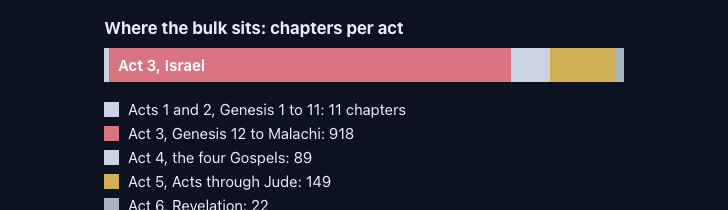
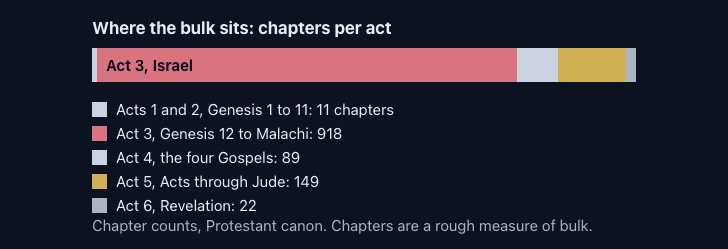
Fix the clipped chart captions, and the blank line that ate three charts
The homepage chart stopped above its own source caption because the
caption was wider than its viewBox and the browser clipped it. The
capture script cropped around the damage. Fixes the charts instead, so
the caption is in the picture: a chart that does not name its source is
worth less.

bible-basics 02's chart and map get a wider viewBox with max-width
widened to match, so 1 unit stays 1 pixel rather than shrinking type
that is already small. The bar is rescaled to keep its right margin. The
"Act 3, Israel" label was hardcoded white, which is 2.2:1 on the salmon
the bar becomes in dark mode; it is knocked out in --bg now, about 8:1
in both themes.

Six other clipped labels: captions wrapped onto a second line in 05, 11,
12 and logic 09, the annotation in 04 moved to a centred line under the
rows, the label in 09 started further left. Widening was wrong for these
because they scale to the column, so a wider box shrinks type the linter
already flags as too small.

Two linter changes, both from things found while doing this:

- It measured rotated labels by their length. logic 10's "concession
  feeds the qualifier" is rotate(90), so it is only as wide as its font
  is tall and was never clipped. It projects the rotation now, and skips
  transforms it cannot reason about.
- A blank line inside an <svg> ends the raw HTML block, so marked closed
  the chart early and the rest rendered outside it and never drew. The
[…]

Changed region(s): [[0.1209, 0.0857, 0.8764, 0.5714], [0.1209, 0.6, 0.8159, 1.0]]

diff --git a/courses/christian-studies/bible-basics/lessons/11-choosing-a-translation.md b/courses/christian-studies/bible-basics/lessons/11-choosing-a-translation.md
@@ -103,7 +103,7 @@ Fee and Stuart put it in the middle. Most people who own one guess "literal", be
 
 Here is their placement, with the dates I've verified from the publishers, and with the CSB (which replaced the HCSB in 2017) placed where its own publisher describes it.[1][13][14]
 
-<svg viewBox="0 0 420 330" role="img" aria-labelledby="spectrum-title spectrum-desc" style="width:100%;height:auto;font-family:inherit">
+<svg viewBox="0 0 420 346" role="img" aria-labelledby="spectrum-title spectrum-desc" style="width:100%;height:auto;font-family:inherit">
   <title id="spectrum-title">The translation spectrum</title>
   <desc id="spectrum-desc">A horizontal spectrum from formal equivalence on the left to free translation on the right. On the formal side: NASB 1971 and 2020, KJV 1611, NKJV 1982, ESV 2001, NRSV 1989 and NRSVue 2021. In the middle: CSB 2017, NIV 1978, 1984, and 2011, NLT 1996 and 2004. On the free end: The Message 2002. Placement follows Fee and Stuart, with the CSB placed by its publisher's description.</desc>
   <defs>
@@ -115,50 +115,43 @@ Here is their placement, with the dates I've verified from the publishers, and w
   </defs>
   <rect x="20" y="40" width="380" height="14" rx="7" fill="url(#spec)"/>
   <g font-size="12" font-weight="700" fill="var(--text)">
-    <text x="20" y="28">Formal: keeps the form</text>
-    <text x="400" y="28" text-anchor="end">Free: restates the idea</text>
+    <text x="20" y="28">Formal: the form</text>
+    <text x="400" y="28" text-anchor="end">Free: the idea</text>
   </g>
-  <text x="210" y="28" text-anchor="middle" font-size="12" font-weight="700" fill="var(--text)">Functional: keeps the sense</text>
+  <text x="210" y="28" text-anchor="middle" font-size="12" font-weight="700" fill="var(--text)">Functional: the sense</text>
   <g font-size="13" fill="var(--text)">
     <line x1="48" y1="54" x2="48" y2="72" stroke="var(--line)" stroke-width="2"/>
     <text x="48" y="88" text-anchor="middle" font-weight="700">NASB</text>
     <text x="48" y="103" text-anchor="middle" font-size="11" fill="var(--text-2)">1971, 2020</text>
-
     <line x1="92" y1="54" x2="92" y2="112" stroke="var(--line)" stroke-width="2"/>
     <text x="92" y="128" text-anchor="middle" font-weight="700">KJV</text>
     <text x="92" y="143" text-anchor="middle" font-size="11" fill="var(--text-2)">1611</text>
-
     <line x1="126" y1="54" x2="126" y2="152" stroke="var(--line)" stroke-width="2"/>
     <text x="126" y="168" text-anchor="middle" font-weight="700">NKJV</text>
     <text x="126" y="183" text-anchor="middle" font-size="11" fill="var(--text-2)">1982</text>
-
     <line x1="150" y1="54" x2="150" y2="72" stroke="var(--line)" stroke-width="2"/>
     <text x="150" y="88" text-anchor="middle" font-weight="700">ESV</text>
     <text x="150" y="103" text-anchor="middle" font-size="11" fill="var(--text-2)">2001</text>
-
     <line x1="172" y1="54" x2="172" y2="192" stroke="var(--line)" stroke-width="2"/>
     <text x="172" y="208" text-anchor="middle" font-weight="700">NRSV</text>
     <text x="172" y="223" text-anchor="middle" font-size="11" fill="var(--text-2)">1989, 2021</text>
-
     <line x1="210" y1="54" x2="210" y2="112" stroke="var(--line)" stroke-width="2"/>
     <text x="210" y="128" text-anchor="middle" font-weight="700">CSB</text>
     <text x="210" y="143" text-anchor="middle" font-size="11" fill="var(--text-2)">2017</text>
-
     <line x1="250" y1="54" x2="250" y2="72" stroke="var(--line)" stroke-width="2"/>
     <text x="250" y="88" text-anchor="middle" font-weight="700">NIV</text>
     <text x="250" y="103" text-anchor="middle" font-size="11" fill="var(--text-2)">1978, 1984, 2011</text>
-
     <line x1="300" y1="54" x2="300" y2="152" stroke="var(--line)" stroke-width="2"/>
     <text x="300" y="168" text-anchor="middle" font-weight="700">NLT</text>
     <text x="300" y="183" text-anchor="middle" font-size="11" fill="var(--text-2)">1996, 2004</text>
-
     <line x1="378" y1="54" x2="378" y2="72" stroke="var(--line)" stroke-width="2"/>
     <text x="378" y="88" text-anchor="middle" font-weight="700">Message</text>
     <text x="378" y="103" text-anchor="middle" font-size="11" fill="var(--text-2)">2002</text>
   </g>
-  <text x="20" y="262" font-size="11" fill="var(--text-2)">Placement after Fee and Stuart, How to Read the Bible for All Its Worth, ch. 2.</text>
-  <text x="20" y="278" font-size="11" fill="var(--text-2)">Dates are first editions and major revisions, from the publishers.</text>
-  <text x="20" y="300" font-size="11" fill="var(--text-2)">Positions within a band are approximate; the bands are the point.</text>
+  <text x="20" y="262" font-size="11" fill="var(--text-2)">Placement after Fee and Stuart,</text>
+  <text x="20" y="278" font-size="11" fill="var(--text-2)">How to Read the Bible for All Its Worth, ch. 2.</text>
+  <text x="20" y="294" font-size="11" fill="var(--text-2)">Dates are first editions and major revisions, from the publishers.</text>
+  <text x="20" y="316" font-size="11" fill="var(--text-2)">Positions within a band are approximate; the bands are the point.</text>
 </svg>
 
 Look at the left third of the chart. The King James and the NASB are both formal, and they translate different Greek texts. The ESV and the NKJV are both formal, and one is a revision of the 1971 Revised Standard Version while the other is a revision of the King James.[10][8] Formal and functional describe *how* a version translates; Received Text and critical text describe *what* it translates. Those are two separate axes, and a lot of arguments about translations are two people each talking about a different one.

diff --git a/courses/christian-studies/bible-basics/lessons/08-how-the-canon-formed.md b/courses/christian-studies/bible-basics/lessons/08-how-the-canon-formed.md
@@ -140,73 +140,59 @@ Then the councils. In 393 a regional council at Hippo in North Africa, with Augu
   <line x1="92" y1="548" x2="92" y2="760" stroke="var(--line)" stroke-width="2"/>
   <line x1="92" y1="524" x2="92" y2="544" stroke="var(--line)" stroke-width="2" stroke-dasharray="3 4"/>
   <text x="104" y="538" font-size="11" fill="var(--text-2)">about 1,100 years</text>
-
   <g font-size="13" fill="var(--text)">
     <text x="80" y="44" text-anchor="end" font-weight="700">c. 132 BC</text>
     <circle cx="92" cy="40" r="6" fill="var(--navy, #0f2a4a)" stroke="var(--gold, #b08d2a)" stroke-width="2"/>
     <text x="104" y="37">Prologue to Sirach: "the Law, the Prophets,</text>
     <text x="104" y="52" fill="var(--text-2)" font-size="12">and the rest of the books"</text>
-
     <text x="80" y="94" text-anchor="end" font-weight="700">c. AD 95</text>
     <circle cx="92" cy="90" r="6" fill="var(--navy, #0f2a4a)" stroke="var(--gold, #b08d2a)" stroke-width="2"/>
     <text x="104" y="87">Josephus: twenty-two books,</text>
     <text x="104" y="102" fill="var(--text-2)" font-size="12">"no one has been so bold as to add"</text>
-
     <text x="80" y="144" text-anchor="end" font-weight="700">c. 144</text>
     <circle cx="92" cy="140" r="6" fill="var(--navy, #0f2a4a)" stroke="var(--gold, #b08d2a)" stroke-width="2"/>
     <text x="104" y="137">Marcion cuts the collection down</text>
     <text x="104" y="152" fill="var(--text-2)" font-size="12">to an edited Luke and ten Pauline letters</text>
-
     <text x="80" y="194" text-anchor="end" font-weight="700">c. 180</text>
     <circle cx="92" cy="190" r="6" fill="var(--navy, #0f2a4a)" stroke="var(--gold, #b08d2a)" stroke-width="2"/>
     <text x="104" y="187">Irenaeus: four Gospels,</text>
     <text x="104" y="202" fill="var(--text-2)" font-size="12">"neither more nor fewer"</text>
-
     <text x="80" y="244" text-anchor="end" font-weight="700">c. 180–200?</text>
     <circle cx="92" cy="240" r="6" fill="var(--navy, #0f2a4a)" stroke="var(--gold, #b08d2a)" stroke-width="2"/>
     <text x="104" y="237">Muratorian Fragment (date argued):</text>
     <text x="104" y="252" fill="var(--text-2)" font-size="12">about 22 books; the Shepherd read, not Scripture</text>
-
     <text x="80" y="294" text-anchor="end" font-weight="700">c. 325</text>
     <circle cx="92" cy="290" r="6" fill="var(--navy, #0f2a4a)" stroke="var(--gold, #b08d2a)" stroke-width="2"/>
     <text x="104" y="287">Eusebius sorts the books:</text>
     <text x="104" y="302" fill="var(--text-2)" font-size="12">recognised, disputed, rejected</text>
-
     <text x="80" y="344" text-anchor="end" font-weight="700" fill="var(--oxblood, #8b1e2d)">325</text>
     <circle cx="92" cy="340" r="7" fill="var(--oxblood, #8b1e2d)"/>
     <text x="104" y="337" fill="var(--oxblood, #8b1e2d)" font-weight="700">Council of Nicaea</text>
     <text x="104" y="352" fill="var(--text-2)" font-size="12">no record of any business about the canon</text>
-
     <text x="80" y="394" text-anchor="end" font-weight="700">367</text>
     <circle cx="92" cy="390" r="7" fill="var(--gold, #b08d2a)"/>
     <text x="104" y="387" font-weight="700">Athanasius, Festal Letter 39:</text>
     <text x="104" y="402" fill="var(--text-2)" font-size="12">first surviving list of exactly our 27</text>
-
     <text x="80" y="444" text-anchor="end" font-weight="700">393, 397</text>
     <circle cx="92" cy="440" r="6" fill="var(--navy, #0f2a4a)" stroke="var(--gold, #b08d2a)" stroke-width="2"/>
     <text x="104" y="437">Hippo and Carthage list the books,</text>
     <text x="104" y="452" fill="var(--text-2)" font-size="12">deuterocanon included; ask Rome to confirm</text>
-
     <text x="80" y="494" text-anchor="end" font-weight="700">c. 405</text>
     <circle cx="92" cy="490" r="6" fill="var(--navy, #0f2a4a)" stroke="var(--gold, #b08d2a)" stroke-width="2"/>
     <text x="104" y="487">Jerome's Vulgate: the extra books kept,</text>
     <text x="104" y="502" fill="var(--text-2)" font-size="12">read for edification, "not to give authority"</text>
-
     <text x="80" y="584" text-anchor="end" font-weight="700">1534</text>
     <circle cx="92" cy="580" r="6" fill="var(--navy, #0f2a4a)" stroke="var(--gold, #b08d2a)" stroke-width="2"/>
     <text x="104" y="577">Luther's Bible: Apocrypha set apart,</text>
     <text x="104" y="592" fill="var(--text-2)" font-size="12">"not held equal", "useful and good to read"</text>
-
     <text x="80" y="634" text-anchor="end" font-weight="700">1546</text>
     <circle cx="92" cy="630" r="6" fill="var(--navy, #0f2a4a)" stroke="var(--gold, #b08d2a)" stroke-width="2"/>
     <text x="104" y="627">Council of Trent defines 46 + 27,</text>
     <text x="104" y="642" fill="var(--text-2)" font-size="12">"entire with all their parts", with an anathema</text>
-
     <text x="80" y="684" text-anchor="end" font-weight="700">1611</text>
     <circle cx="92" cy="680" r="6" fill="var(--navy, #0f2a4a)" stroke="var(--gold, #b08d2a)" stroke-width="2"/>
     <text x="104" y="677">King James Bible printed with</text>
     <text x="104" y="692" fill="var(--text-2)" font-size="12">the Apocrypha between the testaments</text>
-
     <text x="80" y="734" text-anchor="end" font-weight="700">1672</text>
     <circle cx="92" cy="730" r="6" fill="var(--navy, #0f2a4a)" stroke="var(--gold, #b08d2a)" stroke-width="2"/>
     <text x="104" y="727">Synod of Jerusalem (Orthodox): the books</text>

diff --git a/docs/BACKLOG.md b/docs/BACKLOG.md
@@ -318,9 +318,11 @@ block grew 58px on a phone, the review card 112px. Every one was checked by eye 
 including the SVG targets, where nothing came out white on white. If you change the site's layout or
 type, retake the lot rather than one target, or the panels stop matching each other.
 
-Known and left alone: the chart legend's last line (`Act 6, Revelation: 22`) has its descenders
-shaved. That is the same crop as before, and it follows from the clipped-caption bug above, so it
-goes away when that is fixed. Do not paper over it in the capture script.
+The chart photograph used to stop above its own source caption, because that caption was wider than
+its viewBox and the browser clipped it. Both are fixed now: the viewBox is wide enough, the linter
+guards it, and `svgBox` no longer crops. The homepage chart names where its numbers came from, and
+`Act 6, Revelation: 22` keeps its descenders. If a caption ever looks cut again, fix the chart, not
+the capture script.
 
 The one new dependency this adds is `playwright-core` in `devDependencies`. It is dev-only, never
 served to a learner, and it deliberately does not bundle a browser. Rule 9 is about what the site
@@ -552,14 +554,24 @@ lesson already rested it. The argument is unaffected; the texture of the passage
   lesson 10's SVG is the worst and is the anti-pattern, not the template: it hardcodes colours and
   uses font-size 9 and 10.
 - **Five lessons still carry greys outside the palette** in SVG fills.
-- **Nine SVG labels run past their own viewBox and are silently clipped by the browser**, now caught
-  by the linter (see section 1). Two of them are the source captions on both charts in bible-basics
-  lesson 2, so the line naming where the numbers came from loses its last words. Measured in
-  Chromium: bible-basics 02 (two labels), 04, 05 and logic-and-argument 10 are clipped outright;
-  bible-basics 09, 11, 12 and logic 09 are clipped only in a wide system font, which is why they
-  survive a look on one machine. The fix is a wider viewBox or a shorter label, never a smaller font.
-  **The homepage chart screenshot is cropped above bible-basics 02's caption because of this. Retake
-  it once the label is fixed** so the source line is visible: see section 7.
+- ~~**Nine SVG labels run past their own viewBox and are silently clipped by the browser.**~~ Fixed
+  on 6 September 2026, and the linter now holds the line. Eight were real and each took the fix its
+  own shape allowed: bible-basics 02's chart and map got a wider viewBox with `max-width` widened to
+  match, so the drawing keeps 1 unit to 1 pixel instead of shrinking; 05, 11, logic 09 and 12 had
+  their captions wrapped onto a second line, which is what lesson 11 already did; 04's annotation
+  moved to a centred line under the rows; 09's label started further left. The ninth, logic 10's
+  "concession feeds the qualifier", was **never clipped at all**: it is `transform="rotate(90 ...)"`,
+  so it takes up its line height across the page and not its length, and the linter was measuring it
+  as if it ran left to right. The linter now projects the rotation and skips transforms it cannot
+  reason about, so that false positive is gone.
+- ~~**A blank line inside an `<svg>` silently truncates the chart.**~~ Found and fixed the same day.
+  Markdown ends a raw HTML block at a blank line, so `marked` closed the `<svg>` early and handed
+  the rest to the paragraph parser: the words still reached the built HTML, which is why nothing
+  caught it, but the shapes after the blank line rendered outside the chart and never drew. It had
+  taken **all ten** of bible-basics 01's labels, **thirty-nine of forty-three** in lesson 08, and
+  **sixteen of twenty-five** in lesson 11, which was showing one translation out of ten. The linter
+  now fails the build on a blank line inside an `<svg>`. If you write a chart, do not put blank
+  lines between its groups.
 - **The four placeholder courses** (Python, Algebra, Personal Finance, Writing Clearly) are live and
   have never been through the pipeline. They are the largest untouched quality risk on the site,
   because they are the ones learners can actually read today.

diff --git a/courses/christian-studies/bible-basics/lessons/02-one-story.md b/courses/christian-studies/bible-basics/lessons/02-one-story.md
@@ -98,16 +98,16 @@ And these are all Protestant evangelical schemes, which is a limit worth naming,
 
 Second, notice how lopsided the acts are. Count the chapters. A Protestant Bible has 1,189 of them,[7] and Act 3 alone, Genesis 12 through Malachi, has 918.
 
-<svg viewBox="0 0 560 225" xmlns="http://www.w3.org/2000/svg" width="100%" style="max-width:560px;display:block;margin:1.5em auto;font-family:system-ui,sans-serif" role="img" aria-labelledby="bulk-title bulk-desc">
+<svg viewBox="0 0 584 225" xmlns="http://www.w3.org/2000/svg" width="100%" style="max-width:584px;display:block;margin:1.5em auto;font-family:system-ui,sans-serif" role="img" aria-labelledby="bulk-title bulk-desc">
   <title id="bulk-title">Chapters per act: Act 3 is 918 of the Bible's 1,189 chapters</title>
   <desc id="bulk-desc">A single horizontal bar divided into five segments in proportion to the number of chapters in each act. Acts 1 and 2 together (Genesis 1 to 11) are 11 chapters. Act 3 (Genesis 12 to Malachi) is 918. Act 4, the four Gospels, is 89. Act 5, Acts through Jude, is 149. Act 6, Revelation, is 22. Act 3 fills about three quarters of the bar.</desc>
   <text x="20" y="22" font-size="17" font-weight="700" fill="var(--text, #1a1a1a)">Where the bulk sits: chapters per act</text>
   <rect x="20" y="36" width="5" height="34" fill="var(--line-strong, #9a9a9a)"/>
-  <rect x="25" y="36" width="402" height="34" fill="var(--oxblood, #8b1e2d)"/>
-  <rect x="427" y="36" width="39" height="34" fill="var(--navy, #0f2a4a)"/>
-  <rect x="466" y="36" width="65" height="34" fill="var(--gold, #b08d2a)"/>
-  <rect x="531" y="36" width="9" height="34" fill="var(--text-2, #4a5260)"/>
-  <text x="34" y="59" font-size="15" font-weight="700" fill="#ffffff">Act 3, Israel</text>
+  <rect x="25" y="36" width="420" height="34" fill="var(--oxblood, #8b1e2d)"/>
+  <rect x="445" y="36" width="41" height="34" fill="var(--navy, #0f2a4a)"/>
+  <rect x="486" y="36" width="68" height="34" fill="var(--gold, #b08d2a)"/>
+  <rect x="554" y="36" width="10" height="34" fill="var(--text-2, #4a5260)"/>
+  <text x="34" y="59" font-size="15" font-weight="700" fill="var(--bg, #ffffff)">Act 3, Israel</text>
   <rect x="20" y="90" width="15" height="15" fill="var(--line-strong, #9a9a9a)"/>
   <text x="44" y="103" font-size="15" fill="var(--text, #1a1a1a)">Acts 1 and 2, Genesis 1 to 11: 11 chapters</text>
   <rect x="20" y="114" width="15" height="15" fill="var(--oxblood, #8b1e2d)"/>
@@ -167,7 +167,7 @@ David's. "The throne of his father David" and a kingdom that "will never end" ar
 
 This is the act most readers get lost in, laid out so you can find your place. Read it top to bottom, then keep it open while you read the rest of the lesson.
 
-<svg viewBox="0 0 560 880" xmlns="http://www.w3.org/2000/svg" width="100%" style="max-width:560px;display:block;margin:1.5em auto;font-family:system-ui,sans-serif" role="img" aria-labelledby="tl-title tl-desc">
+<svg viewBox="0 0 584 880" xmlns="http://www.w3.org/2000/svg" width="100%" style="max-width:584px;display:block;margin:1.5em auto;font-family:system-ui,sans-serif" role="img" aria-labelledby="tl-title tl-desc">
   <title id="tl-title">The six acts of the Bible's story, with the books of Act 3 in order</title>
   <desc id="tl-desc">A vertical timeline. Act 1 Creation and Act 2 Fall at the top (Genesis 1 to 11). Act 3 Israel runs from Genesis 12 through the patriarchs, Egypt and Sinai, conquest and judges, the united kingdom, the divided kingdom, the fall of Samaria in 722 BC, the fall of Jerusalem and the exile in 586 BC, and the return under Persia, ending with Malachi. Two fixed archaeological points are marked in the pre-exilic stretch: the Tel Dan stele of the ninth century BC and the Ketef Hinnom amulets of the late seventh century BC. A four-hundred-year gap follows, empty of books in a Protestant Bible. Act 4 Jesus (the four Gospels, around AD 30). Act 5 Church (Acts and the letters). Act 6 New creation (Revelation, ending at chapters 21 and 22).</desc>
   <line x1="44" y1="20" x2="44" y2="800" stroke="var(--line-strong, #9a9a9a)" stroke-width="2"/>

diff --git a/courses/christian-studies/bible-basics/lessons/01-finding-your-way-around.md b/courses/christian-studies/bible-basics/lessons/01-finding-your-way-around.md
@@ -131,14 +131,12 @@ The picture below puts all three arrangements side by side, drawn to one scale s
 
 <svg xmlns="http://www.w3.org/2000/svg" viewBox="0 0 480 365" width="100%" style="max-width:480px;display:block;margin:1.5em auto;font-family:system-ui,sans-serif" role="img" aria-label="Three arrangements of the same books, drawn to one scale of eleven units per book. The Tanakh has three shelves totalling 24 books; the Protestant Old Testament has four shelves totalling 39; the New Testament has four shelves totalling 27. The Old Testament row is longer than the Tanakh row because the same material is divided into more books, not because there is more of it.">
   <title>The shelves, drawn to one scale: Tanakh (24), Protestant Old Testament (39), New Testament (27)</title>
-
   <text x="8" y="20" font-size="18" font-weight="700" fill="var(--text, #0f2a4a)">Tanakh, 24 books</text>
   <rect x="8" y="30" width="55" height="26" fill="var(--navy, #0f2a4a)"/>
   <rect x="67" y="30" width="88" height="26" fill="var(--oxblood, #8b1e2d)"/>
   <rect x="159" y="30" width="121" height="26" fill="var(--gold, #b08d2a)"/>
   <text x="8" y="76" font-size="16" fill="var(--text, #1a1a1a)">Torah 5 · Nevi'im 8 · Ketuvim 11</text>
   <text x="8" y="96" font-size="14" fill="var(--text-2, #4a5260)">Ends with Chronicles: "let him go up."</text>
-
   <text x="8" y="134" font-size="18" font-weight="700" fill="var(--text, #0f2a4a)">Protestant Old Testament, 39 books</text>
   <rect x="8" y="144" width="55" height="26" fill="var(--navy, #0f2a4a)"/>
   <rect x="67" y="144" width="132" height="26" fill="var(--oxblood, #8b1e2d)"/>
@@ -146,7 +144,6 @@ The picture below puts all three arrangements side by side, drawn to one scale s
   <rect x="262" y="144" width="187" height="26" fill="var(--text-2, #4a5260)"/>
   <text x="8" y="190" font-size="16" fill="var(--text, #1a1a1a)">Law 5 · History 12 · Poetry 5 · Prophets 17</text>
   <text x="8" y="210" font-size="14" fill="var(--text-2, #4a5260)">Ends with Malachi: "I will send you Elijah."</text>
-
   <text x="8" y="248" font-size="18" font-weight="700" fill="var(--text, #0f2a4a)">New Testament, 27 books</text>
   <rect x="8" y="258" width="44" height="26" fill="var(--navy, #0f2a4a)"/>
   <rect x="56" y="258" width="11" height="26" fill="var(--oxblood, #8b1e2d)"/>
@@ -154,7 +151,6 @@ The picture below puts all three arrangements side by side, drawn to one scale s
   <rect x="306" y="258" width="11" height="26" fill="var(--text-2, #4a5260)"/>
   <text x="8" y="304" font-size="16" fill="var(--text, #1a1a1a)">Gospels 4 · Acts 1 · Letters 21 · Revelation 1</text>
   <text x="8" y="324" font-size="14" fill="var(--text-2, #4a5260)">Ends with Revelation: the new creation.</text>
-
   <text x="8" y="356" font-size="13" fill="var(--text-2, #4a5260)">One scale throughout: eleven units per book.</text>
 </svg>
 

diff --git a/courses/christian-studies/bible-basics/lessons/12-method-tools-plan.md b/courses/christian-studies/bible-basics/lessons/12-method-tools-plan.md
@@ -82,7 +82,7 @@ If you go on to *How to Study the Bible*, you'll meet the same four under other 
 
 The four questions tell you what to ask. Here is the habit that answers them: read outward from the verse in circles.
 
-<svg viewBox="0 0 360 250" xmlns="http://www.w3.org/2000/svg" role="img" aria-label="Five concentric circles labelled from the centre outward: sentence, paragraph, book, testament, Bible" style="max-width:100%;height:auto;display:block;margin:1em auto">
+<svg viewBox="0 0 360 278" xmlns="http://www.w3.org/2000/svg" role="img" aria-label="Five concentric circles labelled from the centre outward: sentence, paragraph, book, testament, Bible" style="max-width:100%;height:auto;display:block;margin:1em auto">
   <circle cx="180" cy="125" r="118" fill="none" stroke="var(--navy, #0f2a4a)" stroke-width="2"/>
   <circle cx="180" cy="125" r="94" fill="none" stroke="var(--navy, #0f2a4a)" stroke-width="2"/>
   <circle cx="180" cy="125" r="70" fill="none" stroke="var(--oxblood, #8b1e2d)" stroke-width="2"/>
@@ -93,7 +93,8 @@ The four questions tell you what to ask. Here is the habit that answers them: re
   <text x="180" y="70" text-anchor="middle" font-size="11" font-family="sans-serif" fill="var(--oxblood, #8b1e2d)">book</text>
   <text x="180" y="46" text-anchor="middle" font-size="11" font-family="sans-serif" fill="var(--navy, #0f2a4a)">testament</text>
   <text x="180" y="22" text-anchor="middle" font-size="11" font-family="sans-serif" fill="var(--navy, #0f2a4a)">whole Bible</text>
-  <text x="180" y="244" text-anchor="middle" font-size="10" font-family="sans-serif" fill="var(--text-2, #4a5260)">Read outward. Each circle answers a question the last one raised.</text>
+  <text x="180" y="258" text-anchor="middle" font-size="10" font-family="sans-serif" fill="var(--text-2, #4a5260)">Read outward. Each circle answers</text>
+  <text x="180" y="270" text-anchor="middle" font-size="10" font-family="sans-serif" fill="var(--text-2, #4a5260)">a question the last one raised.</text>
 </svg>
 
 Take Philippians 4:13, since you've done it once and can watch the circles work. The sentence says "I can do all things through him who strengthens me". The paragraph (4:10 to 13) says the "all things" are hunger and plenty, abundance and need. The book is a letter from prison to a church that sent money. The testament tells you what "in Christ" means across Paul's letters. The whole Bible tells you where contentment sits in the story of God's people. By the third circle the gym-wall reading is gone, and nothing outside the page was needed to remove it.

diff --git a/courses/christian-studies/bible-basics/lessons/09-text-and-reliability.md b/courses/christian-studies/bible-basics/lessons/09-text-and-reliability.md
@@ -171,7 +171,6 @@ Here's the whole shape drawn out, on one scale, so you can see the two gaps side
     <text x="390" y="232">1000</text>
     <line x1="390" y1="212" x2="390" y2="218" stroke="var(--line)"/>
   </g>
-
   <g font-size="12" fill="var(--text)">
     <text x="40" y="30" font-weight="700">Isaiah</text>
     <rect x="50" y="38" width="115" height="10" fill="var(--navy, #0f2a4a)"/>
@@ -181,11 +180,10 @@ Here's the whole shape drawn out, on one scale, so you can see the two gaps side
     <circle cx="165" cy="43" r="6" fill="var(--oxblood, #8b1e2d)"/>
     <text x="175" y="47" font-size="11" fill="var(--oxblood, #8b1e2d)" font-weight="700">Isaiah Scroll c. 125 BC</text>
     <line x1="171" y1="43" x2="386" y2="43" stroke="var(--line)" stroke-width="2" stroke-dasharray="4 4"/>
-    <text x="230" y="78" font-size="11" fill="var(--text-2)">over 1,000 years, unseen until 1947</text>
+    <text x="218" y="78" font-size="11" fill="var(--text-2)">over 1,000 years, unseen until 1947</text>
     <circle cx="391" cy="43" r="6" fill="var(--navy, #0f2a4a)"/>
     <text x="398" y="30" font-size="10" fill="var(--text-2)" text-anchor="end">Leningrad 1008</text>
   </g>
-
   <g font-size="12" fill="var(--text)">
     <text x="40" y="112" font-weight="700">John</text>
     <rect x="208" y="120" width="12" height="10" fill="var(--navy, #0f2a4a)"/>
@@ -195,7 +193,6 @@ Here's the whole shape drawn out, on one scale, so you can see the two gaps side
     <circle cx="260" cy="125" r="6" fill="var(--navy, #0f2a4a)"/>
     <text x="232" y="146" font-size="11" fill="var(--text-2)">Sinaiticus, 4th century</text>
   </g>
-
   <g font-size="12" fill="var(--text)">
     <text x="40" y="178" font-weight="700">Paul</text>
     <rect x="200" y="186" width="30" height="10" fill="var(--navy, #0f2a4a)"/>

diff --git a/courses/foundations/logic-and-argument/lessons/09-reasoning-in-the-news.md b/courses/foundations/logic-and-argument/lessons/09-reasoning-in-the-news.md
@@ -130,7 +130,8 @@ Now do the bacon story yourself, with a gap. Cancer Research UK's figure for the
   <rect x="19" y="98" width="3.4" height="18" fill="var(--oxblood, #8b1e2d)"/>
   <text x="27" y="112" font-size="11" fill="var(--navy, #0f2a4a)">66</text>
   <text x="60" y="112" font-size="11" fill="var(--oxblood, #8b1e2d)">10 extra, in red</text>
-  <text x="0" y="140" font-size="10" fill="var(--text-2, #4a5260)">Each grey bar is 1,000 people. Source: Cancer Research UK, 26 October 2015.</text>
+  <text x="0" y="132" font-size="10" fill="var(--text-2, #4a5260)">Each grey bar is 1,000 people.</text>
+  <text x="0" y="144" font-size="10" fill="var(--text-2, #4a5260)">Source: Cancer Research UK, 26 October 2015.</text>
 </svg>
 
 Two more things the story needed. First, "Group 1" is a statement about the strength of the evidence that something causes cancer, not about how much cancer it causes; tobacco and processed meat sit in the same group and cause very different amounts.[4] Second, the press release itself said it: "For an individual, the risk of developing colorectal cancer because of their consumption of processed meat remains small, but this risk increases with the amount of meat consumed."[3] The sentence that would have stopped the bacon-and-cigarettes headline was in the source. The headline left it out. Weston's rule 15 in action: not a lie, an omission.

diff --git a/courses/christian-studies/bible-basics/lessons/05-poetry-psalms-wisdom.md b/courses/christian-studies/bible-basics/lessons/05-poetry-psalms-wisdom.md
@@ -151,7 +151,8 @@ The second rule is that psalms come in types, and each type has a shape. The Isr
     <rect x="118" y="173" width="19" height="16" fill="var(--navy, #0f2a4a)"/>
     <text x="142" y="185">5</text>
   </g>
-  <text x="8" y="214" font-size="9" fill="var(--text-2, #4a5260)">Counts from Fee and Stuart 2014, ch. 11. Categories overlap; hymns and celebration psalms are not counted there.</text>
+  <text x="8" y="206" font-size="9" fill="var(--text-2, #4a5260)">Counts from Fee and Stuart 2014, ch. 11. Categories overlap;</text>
+  <text x="8" y="218" font-size="9" fill="var(--text-2, #4a5260)">hymns and celebration psalms are not counted there.</text>
 </svg>
 
 Look at the first bar. Laments outnumber every other type, and Fee and Stuart remark that this "probably says something about our common humanity".[2] More of Israel's prayer book is complaint than praise. If your own praying has no room for that, the Psalms will widen it.

diff --git a/courses/christian-studies/bible-basics/lessons/04-law-and-prophets.md b/courses/christian-studies/bible-basics/lessons/04-law-and-prophets.md
@@ -246,7 +246,7 @@ Lay them side by side.
     <line x1="150" y1="222" x2="195" y2="222"/>
   </g>
   <line x1="150" y1="262" x2="195" y2="262" stroke="var(--line-strong, #9a9a9a)" stroke-width="1.5" stroke-dasharray="4 3"/>
-  <text x="200" y="266" font-size="11" fill="var(--oxblood, #8b1e2d)" font-style="italic">4:12 "prepare to meet your God"</text>
+  <text x="180" y="282" text-anchor="middle" font-size="11" fill="var(--oxblood, #8b1e2d)" font-style="italic">4:12 "prepare to meet your God"</text>
   <text x="180" y="300" text-anchor="middle" font-size="10" fill="var(--text-2, #4a5260)">Five sanctions have already fallen. One remains.</text>
   <text x="180" y="316" text-anchor="middle" font-size="10" fill="var(--text-2, #4a5260)">Amos is reading the covenant's own terms back to Israel.</text>
 </svg>
